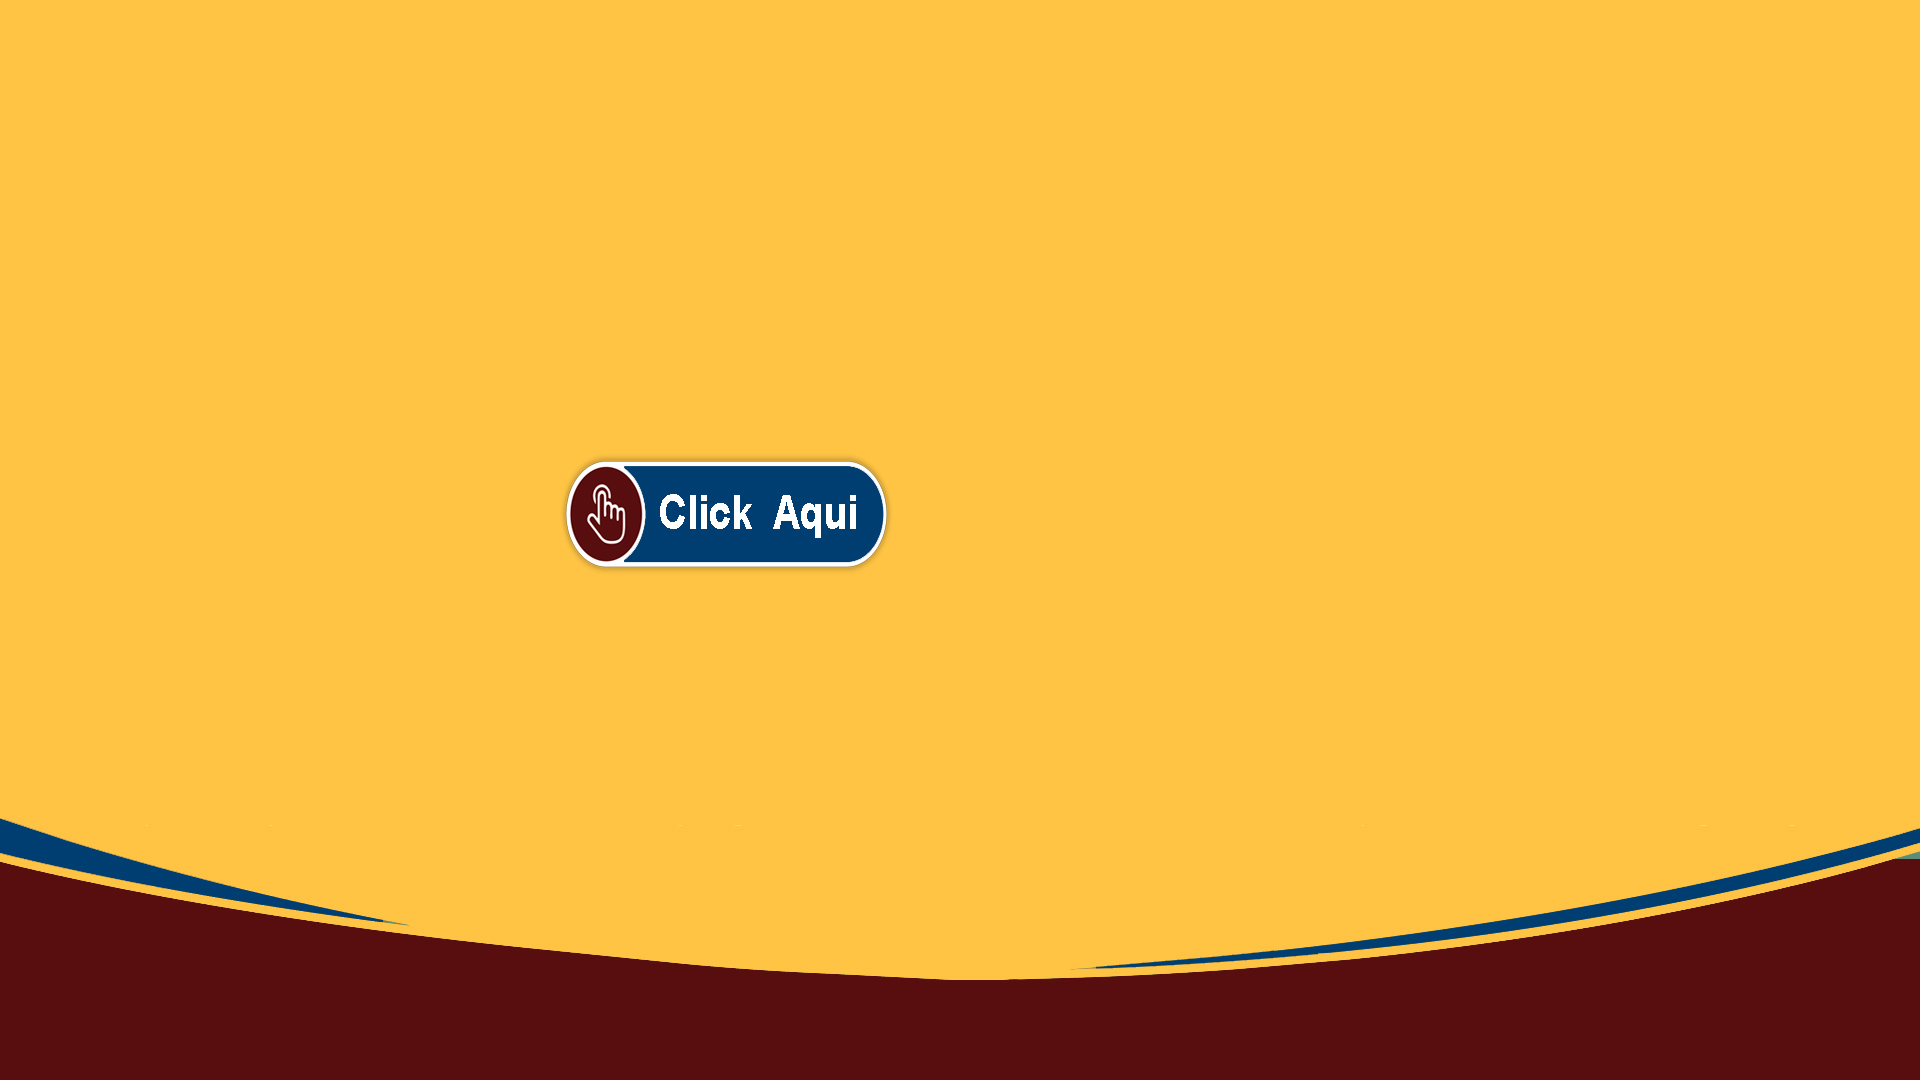
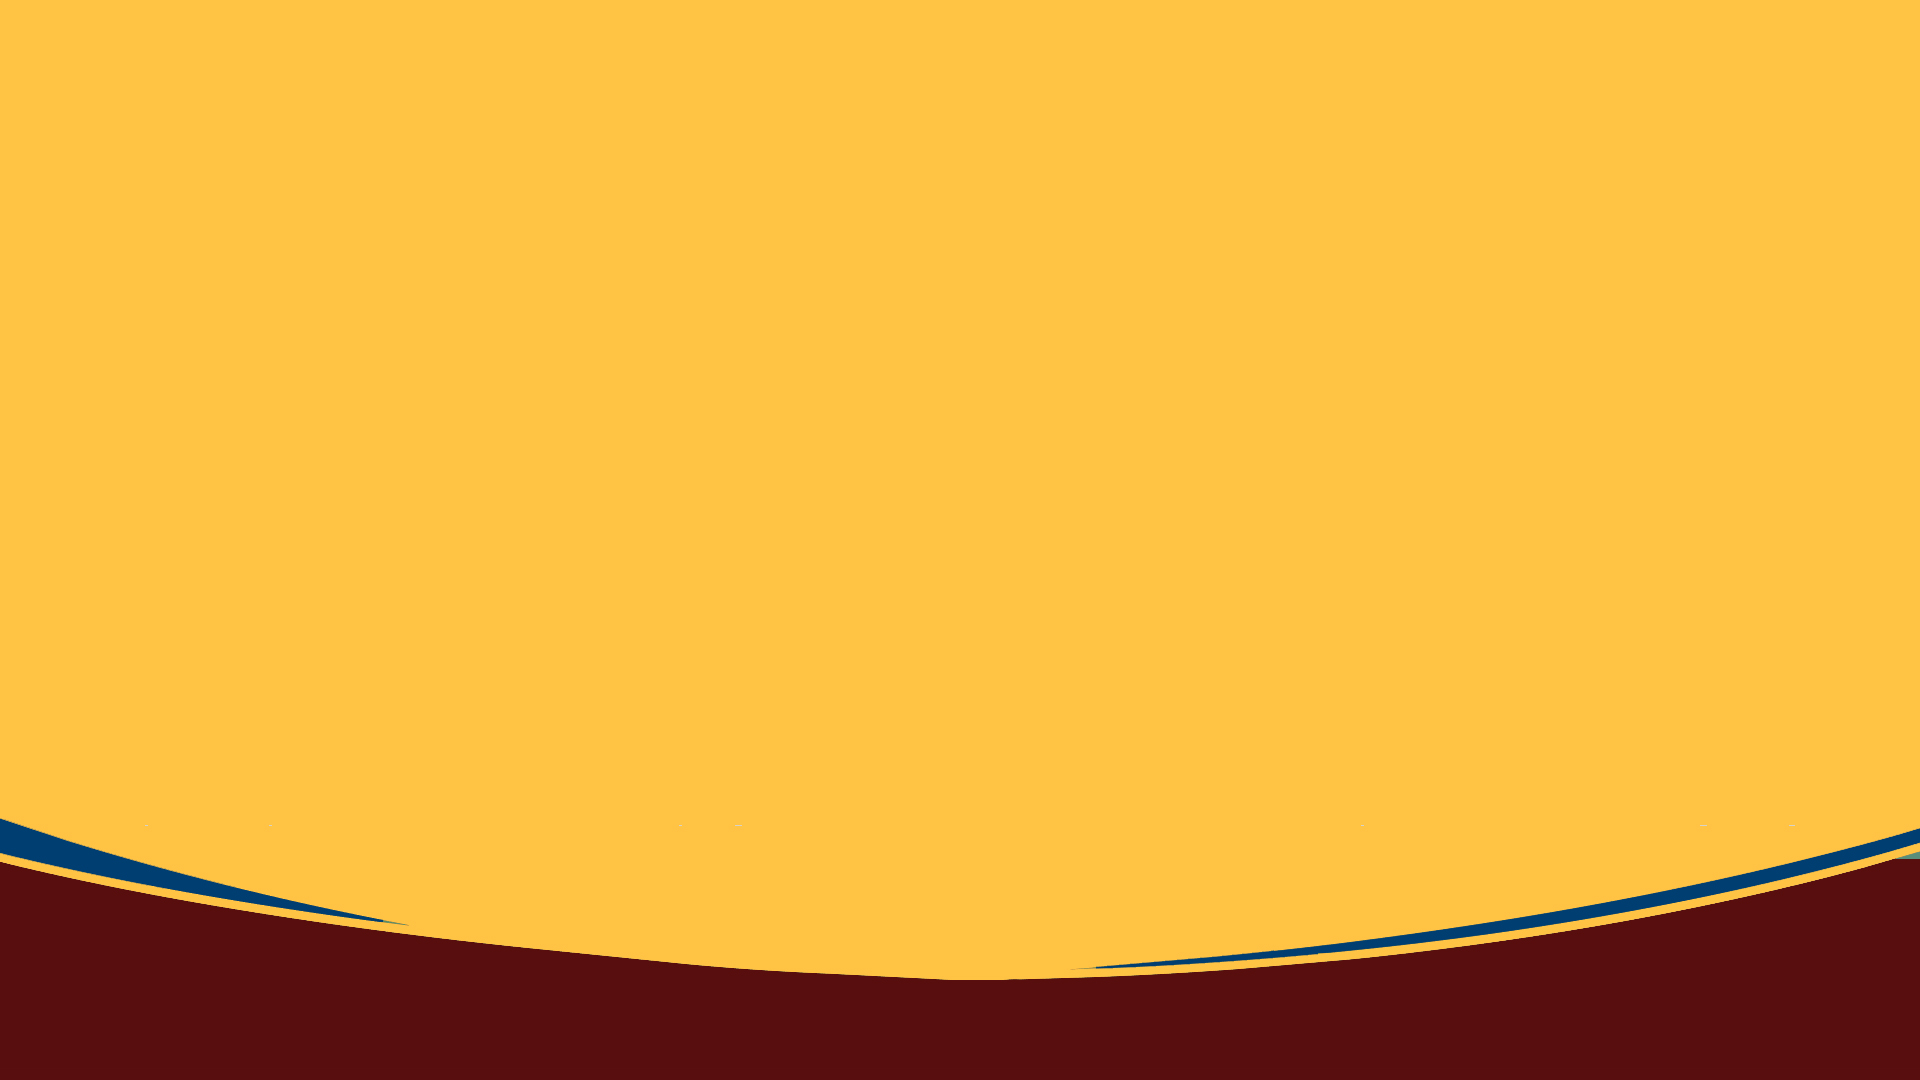
css / imagens/ pontuaçoes/ publico/ clickHere

Changed region(s): [[0.2812, 0.3972, 0.4688, 0.55]]

diff --git a/RTSQuiz/css/index.css b/RTSQuiz/css/index.css
@@ -295,13 +295,12 @@ a{
 }
 
 .lets-play-image{
-    height:500px;
-    width:500px;
+    height:120px;
+    width:320px;
     margin-bottom: 100px;
     border:none;
     cursor:pointer;
-    /* background-image:url("logo3.png"); */
-    /* Imagem segundo plano*/
+    background-image:url("botonClick.png");
 }
 
 
